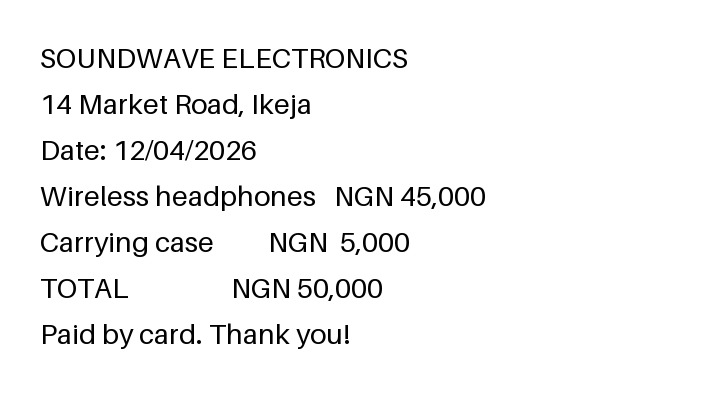
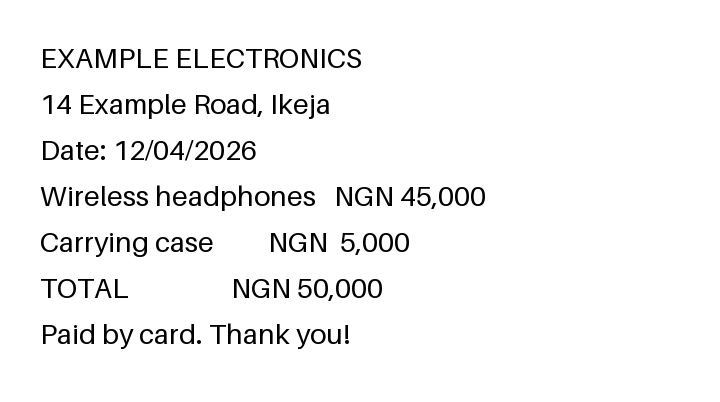
test: use clearly fictional business names in sample data
The synthetic files and the meaning-search calibration set named real or
possibly real organisations (a bank, a hospital, an airline, a car dealer,
a landlord, an electronics shop). Nothing needs a real name, so they are
now "Example ..." names. test-data/ was regenerated with
scripts/generate_test_data.py, and the OCR test still reads the new
receipt.

The calibration texts changed slightly, so CI's real-model tests need to
confirm the recorded calibration results still hold.

Changed region(s): [[0.0611, 0.1194, 0.5806, 0.1791], [0.0917, 0.2388, 0.4583, 0.2985]]

diff --git a/src-tauri/src/search/calibration.rs b/src-tauri/src/search/calibration.rs
@@ -17,29 +17,29 @@ use crate::test_support::real_models_dir;
 
 const DOCUMENTS: &[&str] = &[
     // 0
-    "Access Bank account statement for March 2026. Opening balance NGN 312,450. Transfers out: rent NGN 150,000; school fees NGN 85,000. Closing balance NGN 61,920.",
+    "Example Bank account statement for March 2026. Opening balance NGN 312,450. Transfers out: rent NGN 150,000; school fees NGN 85,000. Closing balance NGN 61,920.",
     // 1
-    "Lagos University Teaching Hospital. Your appointment with the cardiology clinic is on 14 July 2026 at 9:30am. Please bring your previous ECG results and arrive fasting.",
+    "Example General Hospital, Lagos. Your appointment with the cardiology clinic is on 14 July 2026 at 9:30am. Please bring your previous ECG results and arrive fasting.",
     // 2
-    "Booking confirmation PNR K7Q2LM. Lagos (LOS) to Nairobi (NBO), Kenya Airways KQ533, departing 3 August 2026 at 06:15. One checked bag of 23 kg included.",
+    "Booking confirmation PNR K7Q2LM. Lagos (LOS) to Nairobi (NBO), Example Air EX533, departing 3 August 2026 at 06:15. One checked bag of 23 kg included.",
     // 3
-    "Your comprehensive motor insurance policy for the Toyota Corolla (reg. KJA-482-AB) renews on 1 September 2026. Annual premium: NGN 96,000.",
+    "Your comprehensive motor insurance policy for your saloon car (reg. KJA-482-AB) renews on 1 September 2026. Annual premium: NGN 96,000.",
     // 4
-    "Greenfield Primary School, first term 2026/2027. Tuition NGN 180,000, uniform NGN 22,000, books NGN 15,500. Payment due before resumption on 8 September.",
+    "Example Primary School, first term 2026/2027. Tuition NGN 180,000, uniform NGN 22,000, books NGN 15,500. Payment due before resumption on 8 September.",
     // 5
     "Blend tomatoes, red peppers and onions. Fry the paste in oil with curry and thyme, add stock and washed rice, then cover and cook on low heat for 30 minutes.",
     // 6
-    "FitZone Ikeja membership: 12 months, access to the weights room, swimming pool and evening classes. Cancel with 30 days' notice.",
+    "Example Gym, Ikeja. Membership: 12 months, access to the weights room, swimming pool and evening classes. Cancel with 30 days' notice.",
     // 7
-    "We are pleased to offer you the position of Data Analyst at Brightpath Ltd with an annual salary of NGN 9,600,000, starting 1 November 2026.",
+    "We are pleased to offer you the position of Data Analyst at Example Ltd with an annual salary of NGN 9,600,000, starting 1 November 2026.",
     // 8
-    "Ikeja Electric prepaid token purchase: 120.5 kWh for NGN 25,000, meter number 0412 7789 551.",
+    "Prepaid electricity token purchase: 120.5 kWh for NGN 25,000, meter number 0412 7789 551.",
     // 9
-    "Together with their families, Ada and Emeka invite you to celebrate their marriage on Saturday 12 December 2026 at the Civic Centre, Victoria Island. Reception follows.",
+    "Together with their families, Ada and Emeka invite you to celebrate their marriage on Saturday 12 December 2026 at the town hall, Victoria Island. Reception follows.",
     // 10
-    "Warranty card: Samsung Galaxy A55, serial R58T21. Covered for 24 months against manufacturing defects. Screen damage and water damage are not covered.",
+    "Warranty card: Example X5 phone, serial R58T21. Covered for 24 months against manufacturing defects. Screen damage and water damage are not covered.",
     // 11
-    "Nigeria Immigration Service: to renew your passport, book an appointment online, pay the fee, and bring your old passport and national identity number (NIN) slip.",
+    "Immigration office: to renew your passport, book an appointment online, pay the fee, and bring your old passport and national identity number (NIN) slip.",
     // 12
     "Dr. Okafor. Amoxicillin 500 mg, one capsule three times daily for 7 days. Paracetamol as needed for fever. Review in one week.",
     // 13
@@ -51,7 +51,7 @@ const DOCUMENTS: &[&str] = &[
     // 16
     "The estimated project budget is NGN 2,500,000 in total. Raised beds and soil: NGN 1,100,000. Rainwater tank and pipes: NGN 650,000.",
     // 17
-    "SOUNDWAVE ELECTRONICS 14 Market Road, Ikeja Wireless headphones NGN 45,000 Carrying case NGN 5,000 TOTAL NGN 50,000 Paid by card.",
+    "EXAMPLE ELECTRONICS 14 Example Road, Ikeja Wireless headphones NGN 45,000 Carrying case NGN 5,000 TOTAL NGN 50,000 Paid by card.",
     // 18
     "Total marketing spend for the quarter is capped at NGN 4,000,000, split between radio adverts, social media and two community events.",
     // 19
@@ -61,9 +61,9 @@ const DOCUMENTS: &[&str] = &[
     // 21
     "Curriculum vitae. Chioma Nwosu. Experience: 4 years as a secondary school mathematics teacher. Skills: Excel, lesson planning, public speaking.",
     // 22
-    "Service at Coscharis Motors: engine oil and filter changed, brake pads replaced, tyres rotated. Next service due at 45,000 km.",
+    "Service at Example Motors: engine oil and filter changed, brake pads replaced, tyres rotated. Next service due at 45,000 km.",
     // 23
-    "Invoice from QuickFix Plumbing: repaired leaking kitchen sink pipe and replaced the bathroom tap. Labour and parts NGN 18,500.",
+    "Invoice from Example Plumbing: repaired leaking kitchen sink pipe and replaced the bathroom tap. Labour and parts NGN 18,500.",
 ];
 
 /// (search, documents it should find). An empty list: it should find nothing.

diff --git a/scripts/generate_test_data.py b/scripts/generate_test_data.py
@@ -126,12 +126,12 @@ def main() -> None:
     write_pdf(
         ROOT / "pdf" / "Tenancy Agreement - Flat 4B.pdf",
         "Tenancy Agreement - Flat 4B",
-        "Lekki Homes Ltd",
+        "Example Lettings Ltd",
         [
             [
                 "# Tenancy Agreement",
                 "Property: Flat 4B, 12 Palm Avenue.",
-                "Tenant: Tunde Bello. Landlord: Lekki Homes Ltd.",
+                "Tenant: Tunde Bello. Landlord: Example Lettings Ltd.",
                 "Term: twelve months starting 1 June 2026.",
             ],
             [
@@ -184,8 +184,8 @@ def main() -> None:
     write_receipt_image(
         ROOT / "images" / "Headphones receipt.png",
         [
-            "SOUNDWAVE ELECTRONICS",
-            "14 Market Road, Ikeja",
+            "EXAMPLE ELECTRONICS",
+            "14 Example Road, Ikeja",
             "Date: 12/04/2026",
             "Wireless headphones   NGN 45,000",
             "Carrying case         NGN  5,000",

diff --git a/src-tauri/src/ocr/mod.rs b/src-tauri/src/ocr/mod.rs
@@ -127,7 +127,7 @@ mod tests {
         let receipt = PathBuf::from(env!("CARGO_MANIFEST_DIR"))
             .join("../test-data/images/Headphones receipt.png");
         let text = &ocr.read_image(&receipt).unwrap().pages[0].text;
-        assert!(text.contains("SOUNDWAVE ELECTRONICS"), "{text}");
+        assert!(text.contains("EXAMPLE ELECTRONICS"), "{text}");
         assert!(text.contains("Wireless headphones NGN 45,000"), "{text}");
         assert!(text.contains("TOTAL NGN 50,000"), "{text}");
     }
